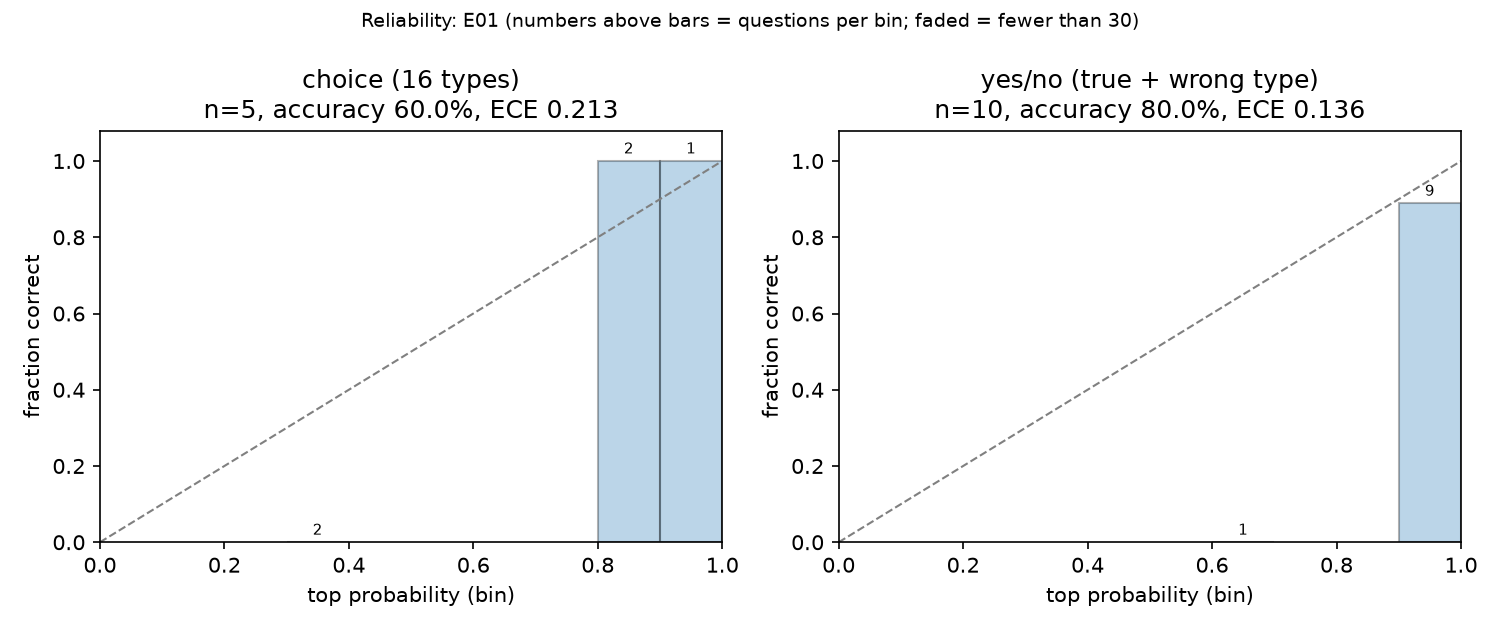
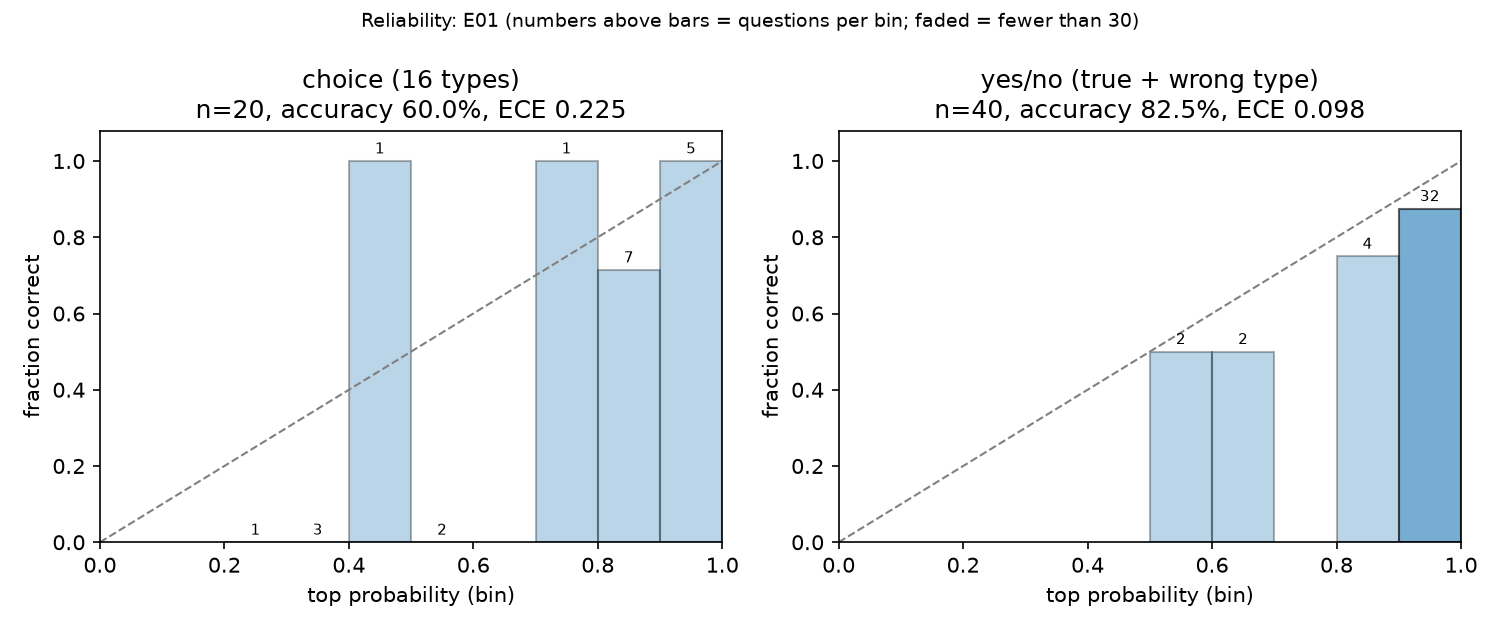
E01 at 20 pages; journal entry 9 (metadata vs content direction)

diff --git a/results/tables/main.md b/results/tables/main.md
@@ -4,10 +4,10 @@ Generated by `results/make_tables.py` from `experiments/runs.jsonl`.
 
 | exp | pages | model | data | labels checked | group | n | accuracy % | NLL | Brier | ECE (top p) |
 |---|---|---|---|---|---|---|---|---|---|---|
-| `E01` | 5 | clef-flash | rvlcdip-v0 | False | choice | 5 | 60.0 | 1.002 | 0.398 | 0.213 |
-| `E01` | 5 | clef-flash | rvlcdip-v0 | False | noul | 10 | 80.0 | 0.417 | 0.269 | 0.150 |
-| `E01` | 5 | clef-flash | rvlcdip-v0 | False | noul_false | 5 | 100.0 | 0.015 | 0.001 | 0.015 |
-| `E01` | 5 | clef-flash | rvlcdip-v0 | False | noul_true | 5 | 60.0 | 0.818 | 0.537 | 0.315 |
+| `E01` | 20 | clef-flash | rvlcdip-v0 | False | choice | 20 | 60.0 | 1.247 | 0.511 | 0.260 |
+| `E01` | 20 | clef-flash | rvlcdip-v0 | False | noul | 40 | 82.5 | 0.508 | 0.285 | 0.132 |
+| `E01` | 20 | clef-flash | rvlcdip-v0 | False | noul_false | 20 | 100.0 | 0.020 | 0.001 | 0.020 |
+| `E01` | 20 | clef-flash | rvlcdip-v0 | False | noul_true | 20 | 65.0 | 0.997 | 0.570 | 0.283 |
 
 ## Coverage at fixed error, per confidence measure
 
@@ -15,19 +15,19 @@ Which measure DocJev uses is undecided (JOURNAL entry 6). Thresholds are chosen 
 
 | exp | group | measure | coverage @≤1% error | coverage @≤5% error | AURC |
 |---|---|---|---|---|---|
-| `E01` | choice | top | 60.0 | 60.0 | 0.130 |
-| `E01` | choice | margin | 60.0 | 60.0 | 0.130 |
-| `E01` | choice | lead_vs_mean | 60.0 | 60.0 | 0.130 |
-| `E01` | choice | concentration | 60.0 | 60.0 | 0.130 |
-| `E01` | noul | top | 70.0 | 70.0 | 0.044 |
-| `E01` | noul | margin | 70.0 | 70.0 | 0.044 |
-| `E01` | noul | lead_vs_mean | 70.0 | 70.0 | 0.044 |
-| `E01` | noul | concentration | 70.0 | 70.0 | 0.044 |
+| `E01` | choice | top | 40.0 | 40.0 | 0.142 |
+| `E01` | choice | margin | 45.0 | 45.0 | 0.140 |
+| `E01` | choice | lead_vs_mean | 40.0 | 40.0 | 0.142 |
+| `E01` | choice | concentration | 40.0 | 40.0 | 0.134 |
+| `E01` | noul | top | 37.5 | 37.5 | 0.078 |
+| `E01` | noul | margin | 37.5 | 37.5 | 0.078 |
+| `E01` | noul | lead_vs_mean | 37.5 | 37.5 | 0.078 |
+| `E01` | noul | concentration | 37.5 | 37.5 | 0.078 |
 | `E01` | noul_false | top | 100.0 | 100.0 | 0.000 |
 | `E01` | noul_false | margin | 100.0 | 100.0 | 0.000 |
 | `E01` | noul_false | lead_vs_mean | 100.0 | 100.0 | 0.000 |
 | `E01` | noul_false | concentration | 100.0 | 100.0 | 0.000 |
-| `E01` | noul_true | top | 40.0 | 40.0 | 0.197 |
-| `E01` | noul_true | margin | 40.0 | 40.0 | 0.197 |
-| `E01` | noul_true | lead_vs_mean | 40.0 | 40.0 | 0.197 |
-| `E01` | noul_true | concentration | 40.0 | 40.0 | 0.197 |
+| `E01` | noul_true | top | 0.0 | 0.0 | 0.502 |
+| `E01` | noul_true | margin | 0.0 | 0.0 | 0.502 |
+| `E01` | noul_true | lead_vs_mean | 0.0 | 0.0 | 0.502 |
+| `E01` | noul_true | concentration | 0.0 | 0.0 | 0.502 |

diff --git a/JOURNAL.md b/JOURNAL.md
@@ -395,3 +395,49 @@ The choice and yes/no answers agreed on every page (3 both right, 2 both
 wrong). Latency p50 0.57 s. The hosted `confidence` matched normalised
 concentration on all 5 choice replies (max difference 0.00007, which is
 rounding), confirming entry 6.
+
+---
+
+## 9. E01 grown to 20 pages; confident misses are label ambiguity
+
+*2026-10-04. `E01` extended from 5 to 20 pages (1 page skipped as too big:
+p089, 273 KB). 45 new calls, all succeeded. Scores in
+`experiments/E01/metrics.json` (latest) and `experiments/runs.jsonl` (history).*
+
+**Direction noted [U].** These RVL-CDIP experiments ask about a document's
+**metadata** (what kind of page it is). A later stage must ask questions about
+the document's **content** (fields, values, checks), which is where most IDP
+decisions sit.
+
+**Results on 20 pages [E].** Still small; read as a first look, not a measurement.
+
+| group | n | accuracy | NLL | Brier | ECE |
+|---|---|---|---|---|---|
+| choice (17 options) | 20 | 0.60 | 1.25 | 0.51 | 0.26 |
+| yes/no, true type | 20 | 0.65 | 1.00 | 0.57 | 0.28 |
+| yes/no, wrong type | 20 | 1.00 | 0.02 | 0.00 | 0.02 |
+
+The choice and yes/no-on-true-type answers agree on 19 of 20 pages (12 both
+right, 7 both wrong, 1 right only on yes/no). Saying "no" to a wrong type is
+easy (20/20); recognising the true type is the hard part. Latency p50 0.55 s,
+p95 0.94 s.
+
+**The 8 choice misses, from looking at the pages [C].**
+
+| page | true | model (p) | what the page shows |
+|---|---|---|---|
+| p016 | form | handwritten **0.815** | large hand-lettered "TAC CUSTOMER SERVICES" on a cover sheet; no form fields visible |
+| p045 | handwritten | scientific_report **0.827** | a *handwritten* monthly research report ("Smoke Analyses") on a printed RJR report form; the yes/no "handwritten?" said 0.83 yes |
+| p021 | form | memo 0.381 | fax cover sheet (memo/letter/form all plausible) |
+| p160 | presentation | blank_or_unreadable 0.360 | sideways slide with a title and one line |
+| p106 | file folder | blank_or_unreadable 0.505 | (folder tab; not yet viewed) |
+| p140 | budget | form 0.530 | (not yet viewed) |
+| p054 | advertisement | memo 0.204 | (not yet viewed) |
+| p163 | presentation | specification 0.391 | (not yet viewed) |
+
+The two **confident** misses (0.82–0.83) are not the model being blind: in both,
+its answer is a fair description of the page, and the dataset's single label
+picks a different side of an overlap (handwritten vs. its purpose; a
+hand-lettered cover vs. "form"). This is the label problem from entry 3
+(ambiguous and multi-label pages), seen first-hand. It supports doing the
+hand-check before reading anything into the confident-error numbers.

diff --git a/results/tables/detail.md b/results/tables/detail.md
@@ -4,29 +4,45 @@ Generated by `results/make_tables.py`.
 
 ## `E01`
 
-Scored 15/15 questions; latency p50 0.57 s, p95 0.79 s, max 0.80 s; 14,399 input tokens (median 896 per request).
+Scored 60/60 questions; latency p50 0.55 s, p95 0.94 s, max 1.75 s; 57,321 input tokens (median 896 per request).
 
-Hosted `confidence` vs normalised concentration, max abs difference: 6.761125000009915e-05
+Hosted `confidence` vs normalised concentration, max abs difference: 0.00012167500000004328
 
 ### Choice accuracy by true type
 
 | type | accuracy % |
 |---|---|
+| advertisement | 0.0 |
+| budget | 0.0 |
+| email | 100.0 |
+| file folder | 0.0 |
 | form | 0.0 |
+| handwritten | 0.0 |
+| invoice | 100.0 |
+| letter | 100.0 |
 | memo | 100.0 |
+| news article | 100.0 |
 | presentation | 0.0 |
+| questionnaire | 100.0 |
 | resume | 100.0 |
 | scientific report | 100.0 |
+| specification | 100.0 |
 
 ### Most common choice confusions
 
 | true type | predicted | pages |
 |---|---|---|
+| form | handwritten | 1 |
 | form | memo | 1 |
+| handwritten | scientific_report | 1 |
+| advertisement | memo | 1 |
+| file folder | blank_or_unreadable | 1 |
+| budget | form | 1 |
 | presentation | blank_or_unreadable | 1 |
+| presentation | specification | 1 |
 
 ### Choice vs yes/no about the true type, per page
 
 | both right | choice only | yes/no only | both wrong |
 |---|---|---|---|
-| 3 | 0 | 0 | 2 |
+| 12 | 0 | 1 | 7 |
